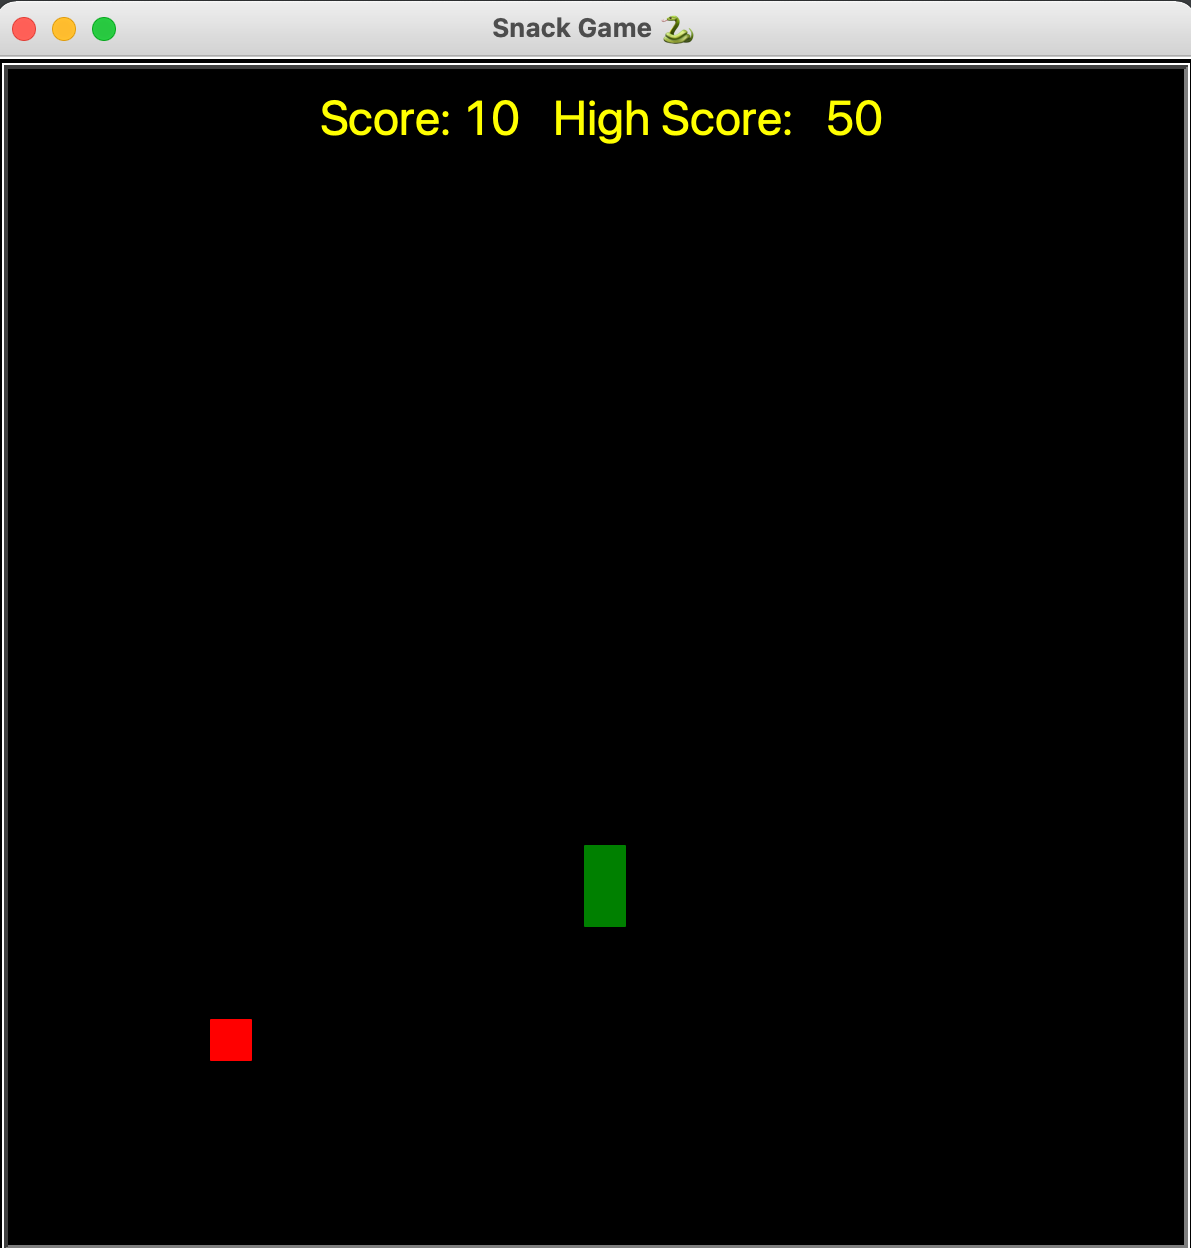
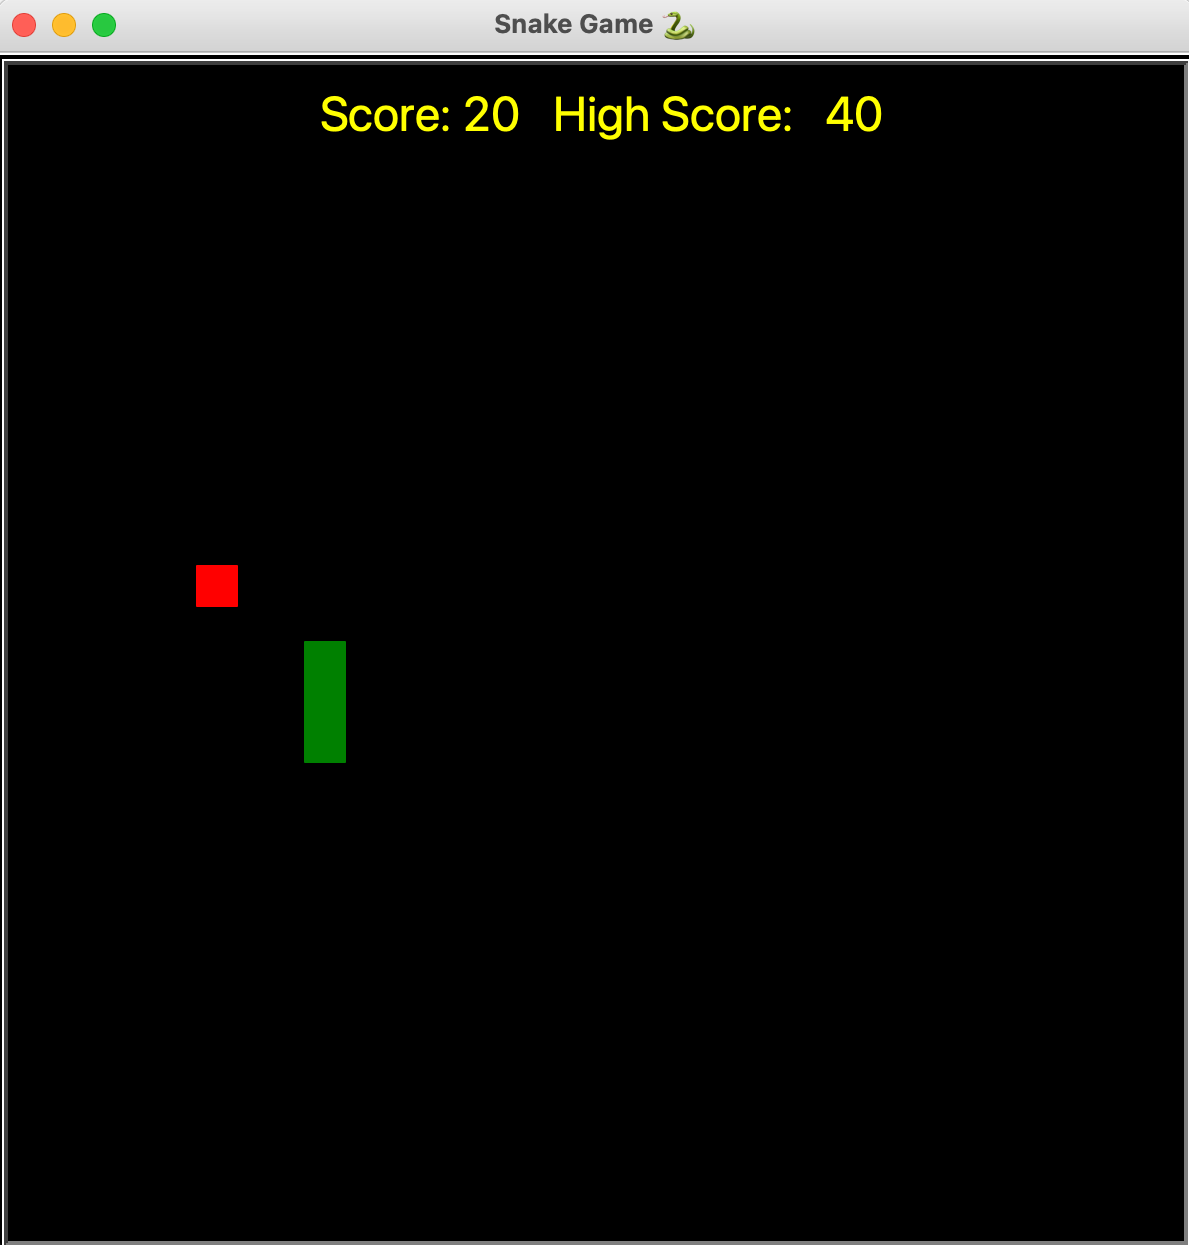
update

diff --git a/snake.py b/snake.py
@@ -10,7 +10,7 @@ delay = 0.1
 
 #set up the screen window
 window =turtle.Screen()
-window.title("Snack Game 🐍")
+window.title("Snake Game 🐍")
 window.setup(width=600, height=600)
 window.bgcolor("black")
 window.tracer(0) # setup delay
@@ -156,4 +156,4 @@ while True:
                              font=("ds-digital", 24, "normal"))
     time.sleep(delay)
 
-window.mainloop()
+window1.mainloop()
